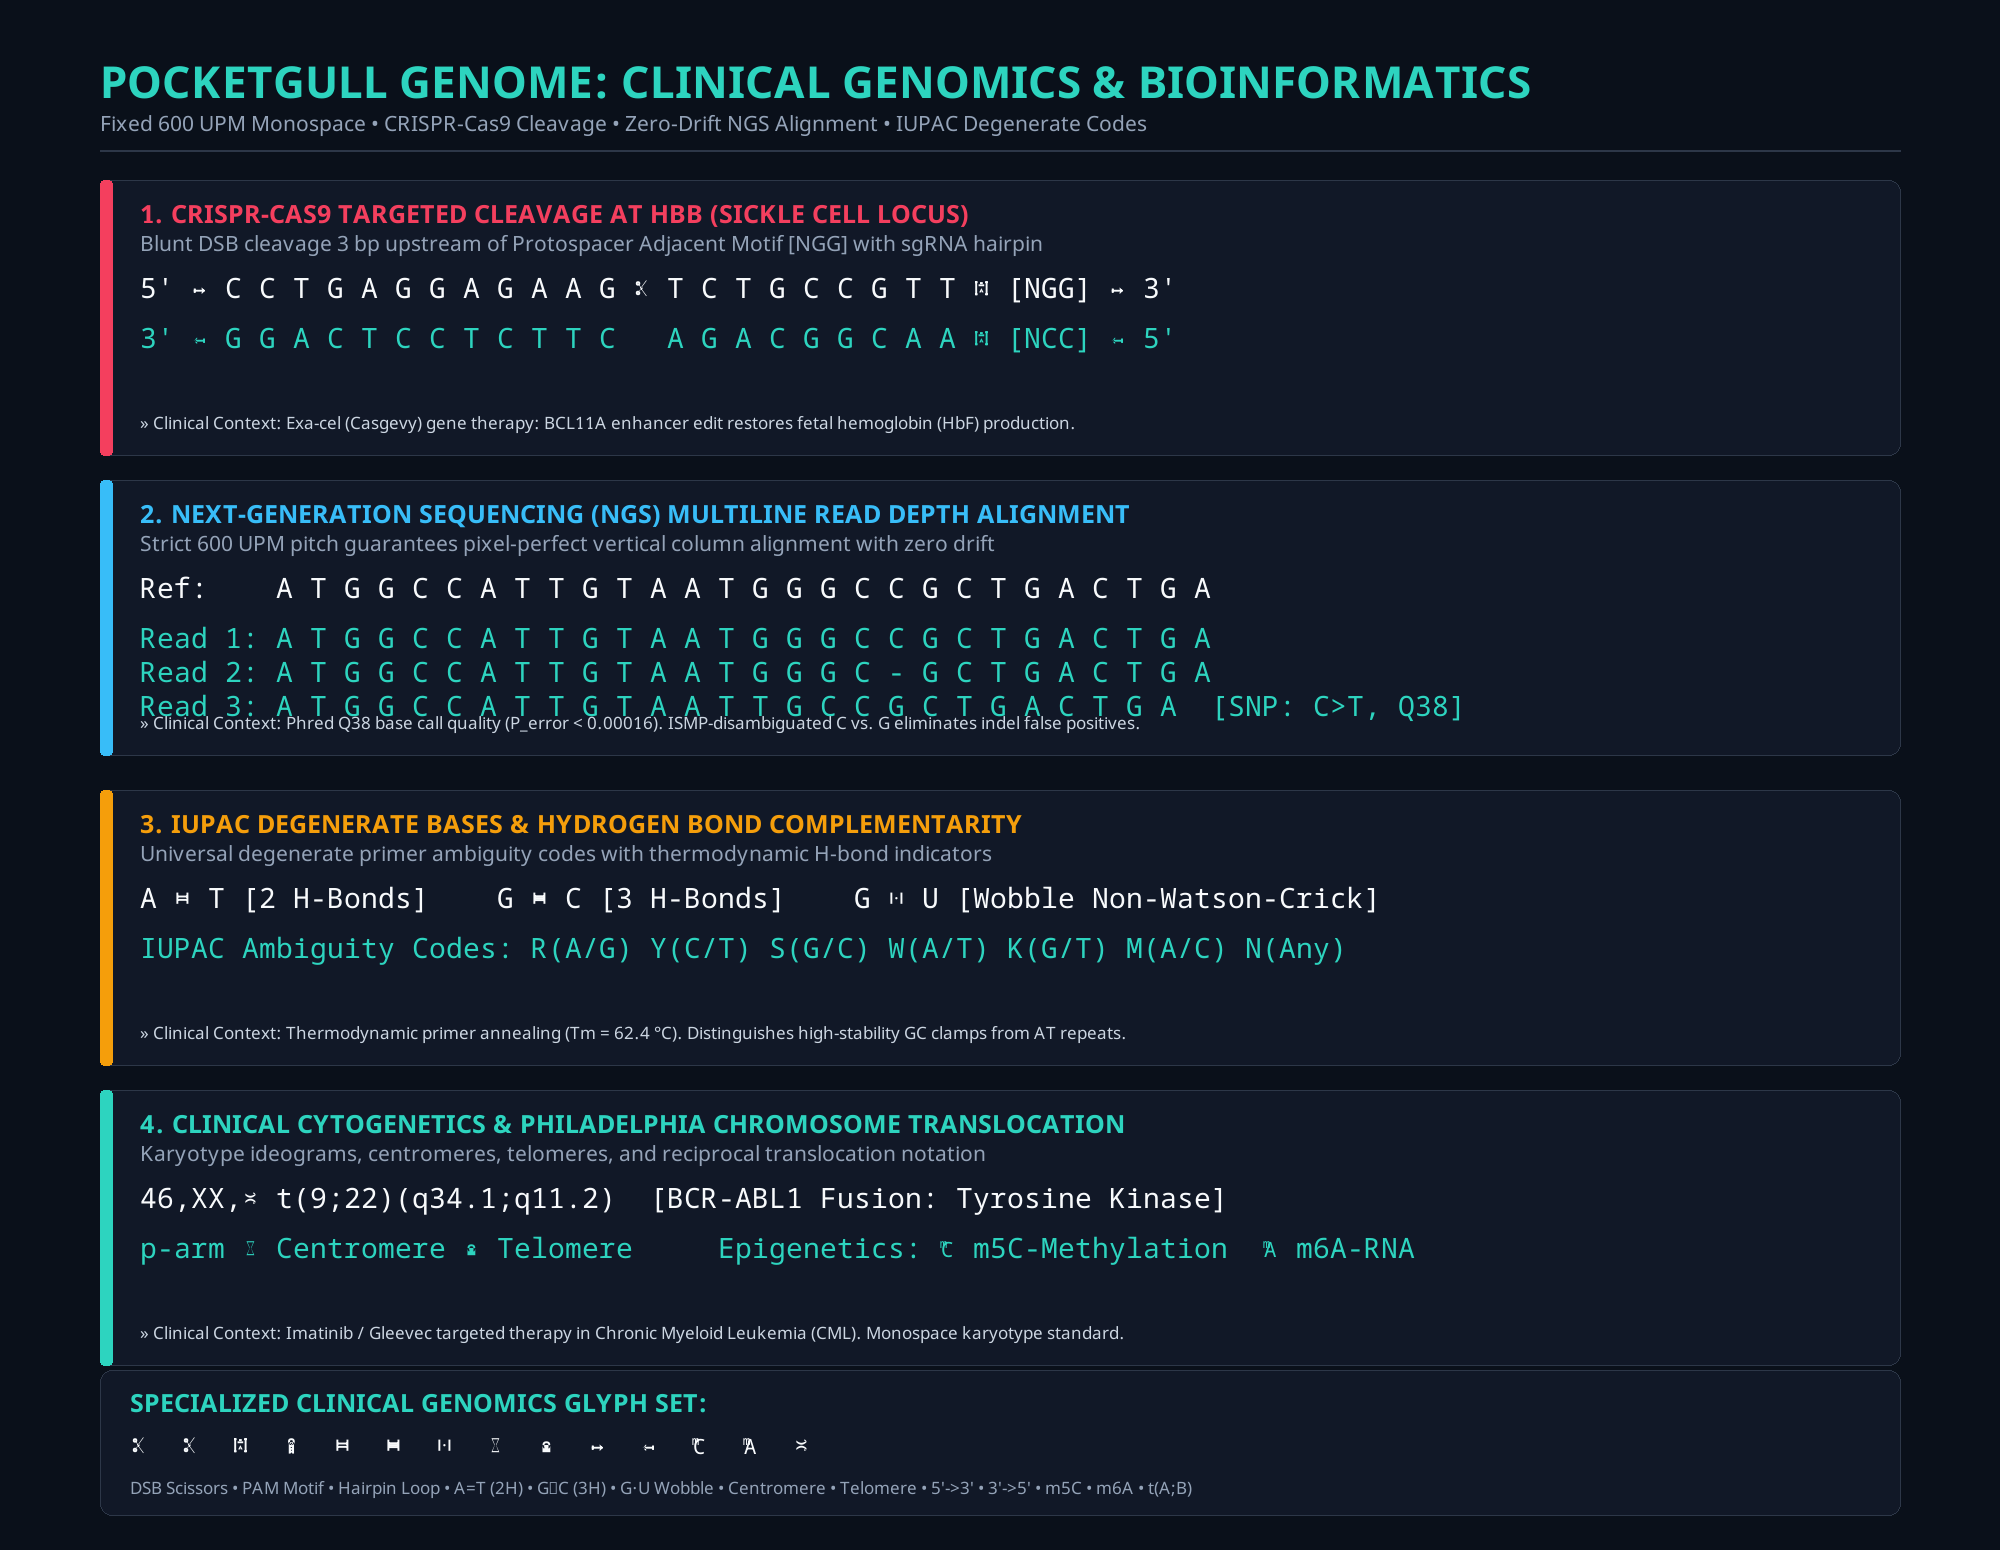
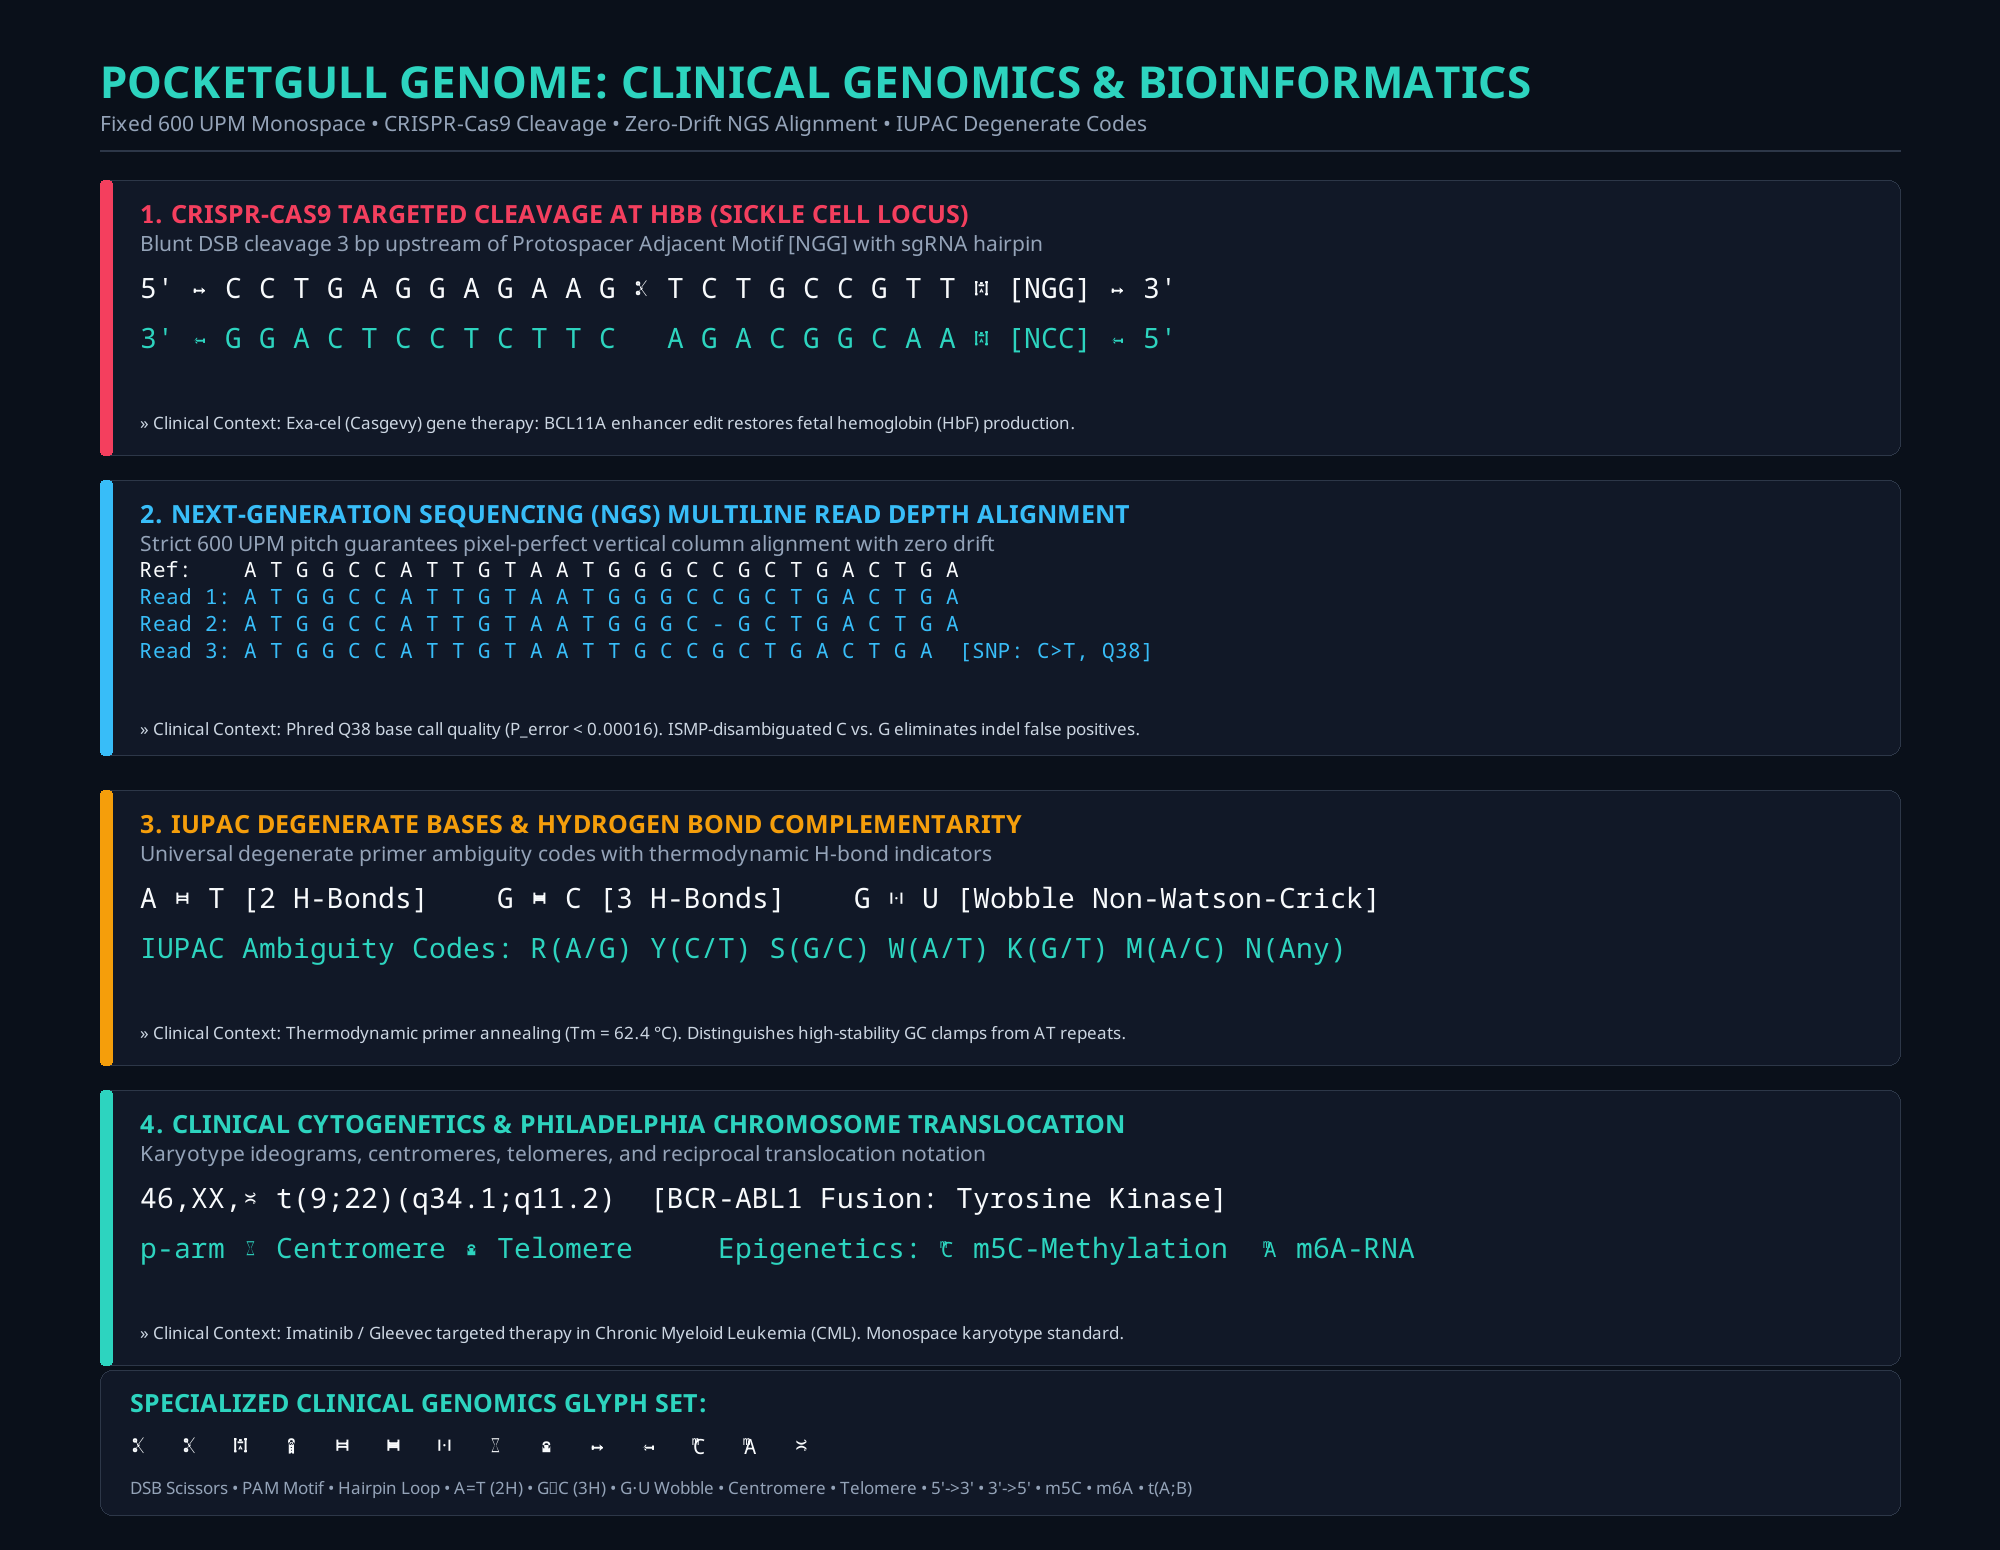
fix(genome-specimen): resolve Card 2 multiline NGS read depth overlap on clinical context

Changed region(s): [[0.062, 0.3716, 0.589, 0.4955], [0.713, 0.4335, 0.744, 0.4645], [0.62, 0.4335, 0.651, 0.4645]]

diff --git a/scripts/render_clinical_genome_specimen.py b/scripts/render_clinical_genome_specimen.py
@@ -64,6 +64,7 @@ def render_genome_plate():
             "seq2": "Read 1: A T G G C C A T T G T A A T G G G C C G C T G A C T G A\nRead 2: A T G G C C A T T G T A A T G G G C - G C T G A C T G A\nRead 3: A T G G C C A T T G T A A T T G C C G C T G A C T G A  [SNP: C>T, Q38]",
             "clinical": "Phred Q38 base call quality (P_error < 0.00016). ISMP-disambiguated C vs. G eliminates indel false positives.",
             "color": CYAN_ACCENT,
+            "is_multiline": True,
             "y": 480
         },
         {
@@ -94,9 +95,17 @@ def render_genome_plate():
 
         draw.text((140, y0 + 16), card["title"], font=font_section, fill=card["color"])
         draw.text((140, y0 + 48), card["subtitle"], font=font_subtitle, fill=MUTED_TEXT)
-        draw.text((140, y0 + 88), card["seq1"], font=font_seq_med, fill=TEXT_WHITE)
-        draw.text((140, y0 + 138), card["seq2"], font=font_seq_med, fill=TEAL_ACCENT)
-        draw.text((140, y0 + 230), f"\u00bb Clinical Context: {card['clinical']}", font=font_meta, fill=(203, 213, 225))
+        if card.get("is_multiline"):
+            font_align = ImageFont.truetype(FONT_GENOME, 21)
+            draw.text((140, y0 + 74), card["seq1"], font=font_align, fill=TEXT_WHITE)
+            reads = card["seq2"].split("\n")
+            for r_idx, r_text in enumerate(reads):
+                draw.text((140, y0 + 101 + r_idx * 27), r_text, font=font_align, fill=CYAN_ACCENT)
+            draw.text((140, y0 + 236), f"\u00bb Clinical Context: {card['clinical']}", font=font_meta, fill=(203, 213, 225))
+        else:
+            draw.text((140, y0 + 88), card["seq1"], font=font_seq_med, fill=TEXT_WHITE)
+            draw.text((140, y0 + 138), card["seq2"], font=font_seq_med, fill=TEAL_ACCENT)
+            draw.text((140, y0 + 230), f"\u00bb Clinical Context: {card['clinical']}", font=font_meta, fill=(203, 213, 225))
 
     # Bottom Banner: Specialized Genomics Glyph Set
     draw.rounded_rectangle([(100, 1370), (1900, 1515)], radius=12, fill=CARD_BG, outline=CARD_BORDER, width=1)
